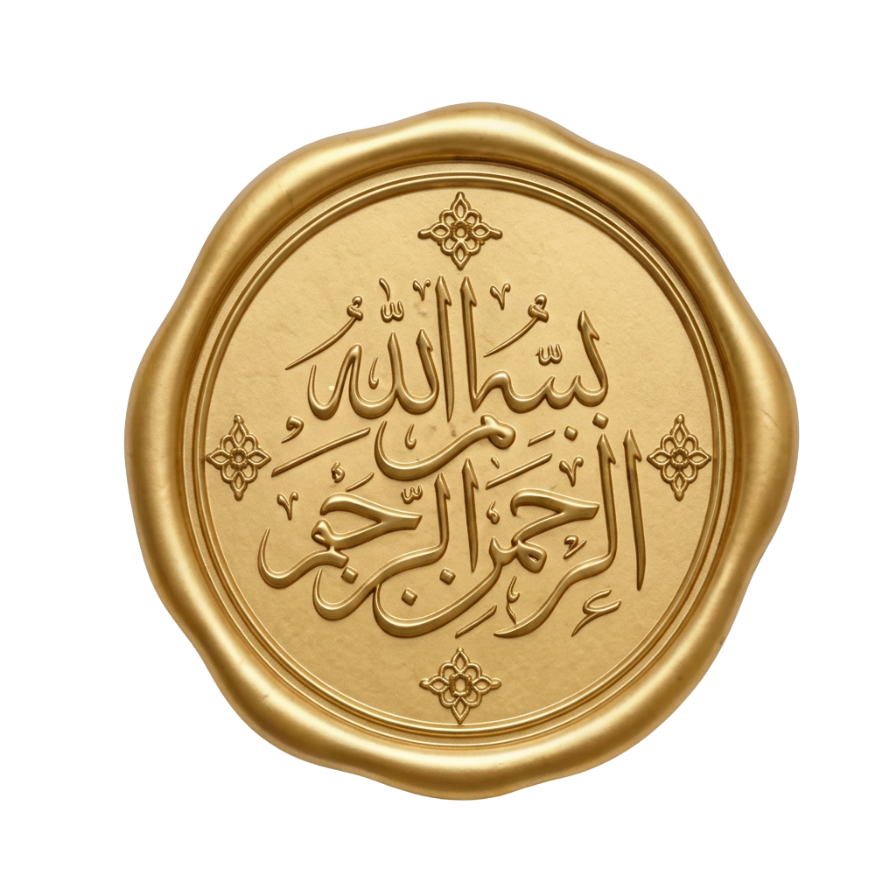
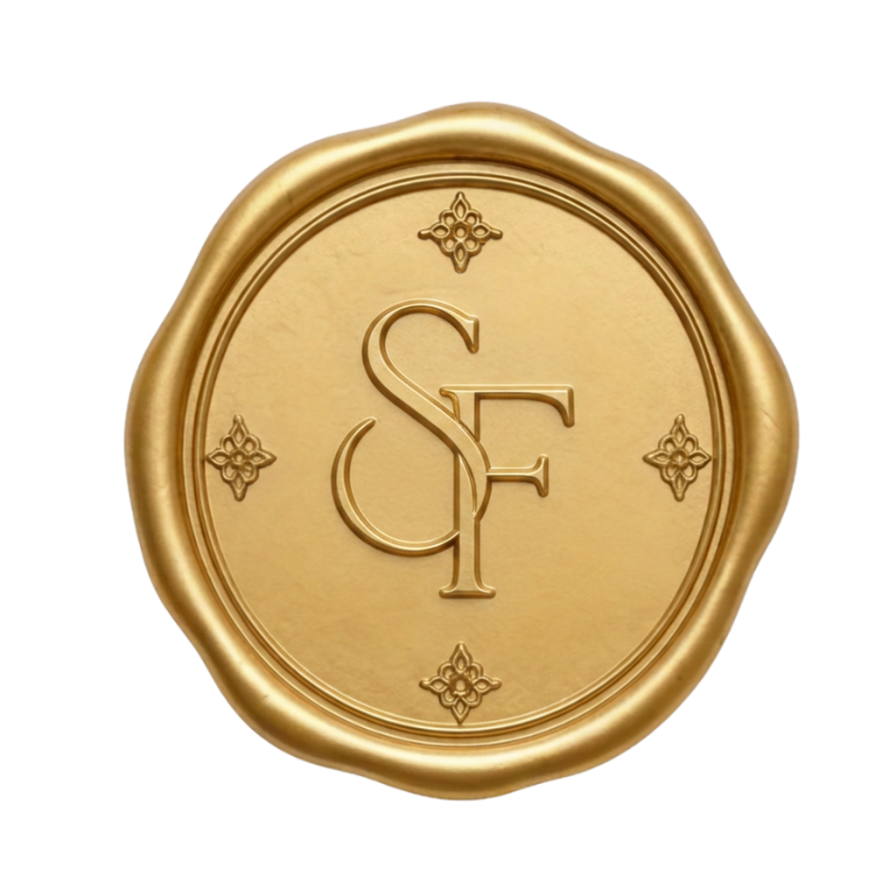
Fix invitation card layout and map/hero adjustments

Changed region(s): [[0.25, 0.2188, 0.7812, 0.7812]]

diff --git a/css/styles.css b/css/styles.css
@@ -503,15 +503,29 @@ body.mood-night .hero-overlay {
     }
 }
 
+@keyframes heroFadeUpShift {
+    from {
+        opacity: 0;
+        transform: translateY(22px) translateX(16px);
+    }
+    to {
+        opacity: 1;
+        transform: translateY(0) translateX(16px);
+    }
+}
+
 /* Children are invisible by default; body.is-open triggers the animation */
 .hero-names,
 .hero-divider {
     opacity: 0;
 }
 
-body.is-open .hero-names,
+body.is-open .hero-names {
+    animation: heroFadeUpShift 2s cubic-bezier(0.19, 1, 0.22, 1) both;
+}
+
 body.is-open .hero-divider {
-    animation: heroFadeUp 2s cubic-bezier(0.19, 1, 0.22, 1) both;
+    animation: heroFadeUpShift 2s cubic-bezier(0.19, 1, 0.22, 1) both;
 }
 
 body.is-open .hero-names      { animation-delay: 0.3s; }
@@ -520,7 +534,7 @@ body.is-open .hero-divider    { animation-delay: 0.75s; }
 /* Typography */
 .hero-names {
     font-family: var(--font-cursive);
-    font-size: clamp(3.2rem, 14vw, 5rem);
+    font-size: clamp(2.9rem, 12.5vw, 4.3rem);
     font-weight: 400;
     color: var(--color-brown);
     letter-spacing: 0.01em;
@@ -589,7 +603,7 @@ body.is-open .hero-divider    { animation-delay: 0.75s; }
 .invitation-card {
     position: relative;
     width: min(92vw, 430px);
-    height: clamp(760px, 198vw, 920px);
+    height: clamp(800px, 215vw, 960px);
     max-width: 430px;
     margin: 0 auto;
     overflow: visible;
@@ -611,7 +625,7 @@ body.is-open .hero-divider    { animation-delay: 0.75s; }
     left: 13%;
     right: 13%;
     top: 25.2%;
-    bottom: 12.8%;
+    bottom: 8%;
     z-index: 2;
     display: flex;
     flex-direction: column;
@@ -620,7 +634,7 @@ body.is-open .hero-divider    { animation-delay: 0.75s; }
     text-align: center;
     overflow: hidden;
     color: #2f2f2f;
-    gap: clamp(0.22rem, 0.86vw, 0.44rem);
+    gap: clamp(0.12rem, 0.6vw, 0.36rem);
 }
 
 .invitation-card__content > * {
@@ -630,14 +644,14 @@ body.is-open .hero-divider    { animation-delay: 0.75s; }
 .invitation-card__bismillah {
     width: min(46%, 150px);
     height: auto;
-    margin: 0 auto clamp(0.48rem, 1.5vw, 0.72rem);
+    margin: 0 auto clamp(0.28rem, 1vw, 0.52rem);
     display: block;
 }
 
 .invitation-card__divider {
     width: clamp(38px, 11.5vw, 52px);
     height: auto;
-    margin-bottom: clamp(0.34rem, 1.15vw, 0.58rem);
+    margin-bottom: clamp(0.18rem, 0.7vw, 0.38rem);
     filter: sepia(1) saturate(1.8) hue-rotate(-8deg) brightness(0.9);
 }
 
@@ -842,7 +856,7 @@ body.is-open .hero-divider    { animation-delay: 0.75s; }
 @media (min-width: 768px) {
     .invitation-card {
         width: 430px;
-        height: 920px;
+        height: 960px;
         max-width: 430px;
     }
 }

diff --git a/index.html b/index.html
@@ -114,7 +114,7 @@
                         aria-hidden="true"
                     />
 
-                    <p class="invitation-parents">Dr. Syed Quamrul Huda &amp; Mrs. Nusrat Ara</p>
+                    <p class="invitation-parents">Dr. Syed Quamrul Huda <br> &amp; <br> Mrs. Nusrat Ara</p>
 
                     <p class="invitation-formal">
                         cordially request the pleasure of your company at the Wedding Ceremony of
@@ -127,7 +127,7 @@
 
                     <p class="invitation-family">
                         <span class="invitation-family-intro">youngest son of</span> <br>
-                        <span class="invitation-family-line2 invitation-family--parents-font">(Shaheed) Lt Col Elahi Manzoor Chowdhury &amp; Tanni Yeafta Chowdhury</span>
+                        <span class="invitation-family-line2 invitation-family--parents-font">(Shaheed) Lt Col Elahi Manzoor Chowdhury<br> &amp; <br> Tanni Yeafta Chowdhury</span>
                     </p>
 
                     <p class="invitation-closing">
@@ -380,7 +380,7 @@
                     <iframe
                         class="map-embed"
                         title="Senakunja, Dhaka Cantonment map"
-                        src="https://www.google.com/maps?q=Senakunja%20Dhaka%20Cantonment&output=embed"
+                        src="https://www.google.com/maps?q=23.8032456,90.3998496&z=16&output=embed"
                         loading="lazy"
                         referrerpolicy="no-referrer-when-downgrade"
                         allowfullscreen
@@ -396,7 +396,7 @@
                     />
                 </div>
 
-                <a class="location-map-link" href="https://maps.app.goo.gl/jyMANHK54fSdDJM96" target="_blank" rel="noopener">
+                <a class="location-map-link" href="https://maps.app.goo.gl/JatEcfpUTkbEP34z5" target="_blank" rel="noopener">
                     Open in Google Maps
                 </a>
             </div>